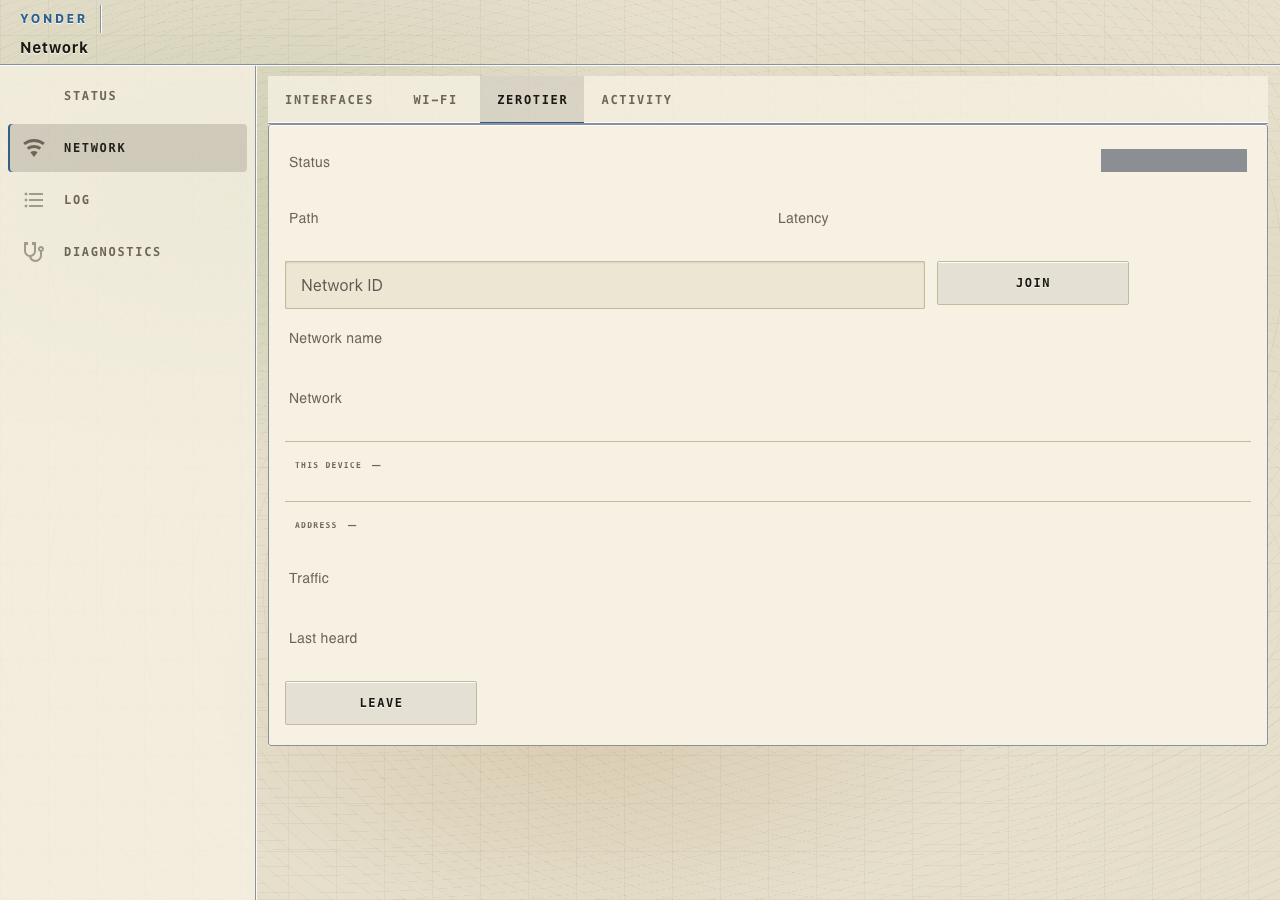
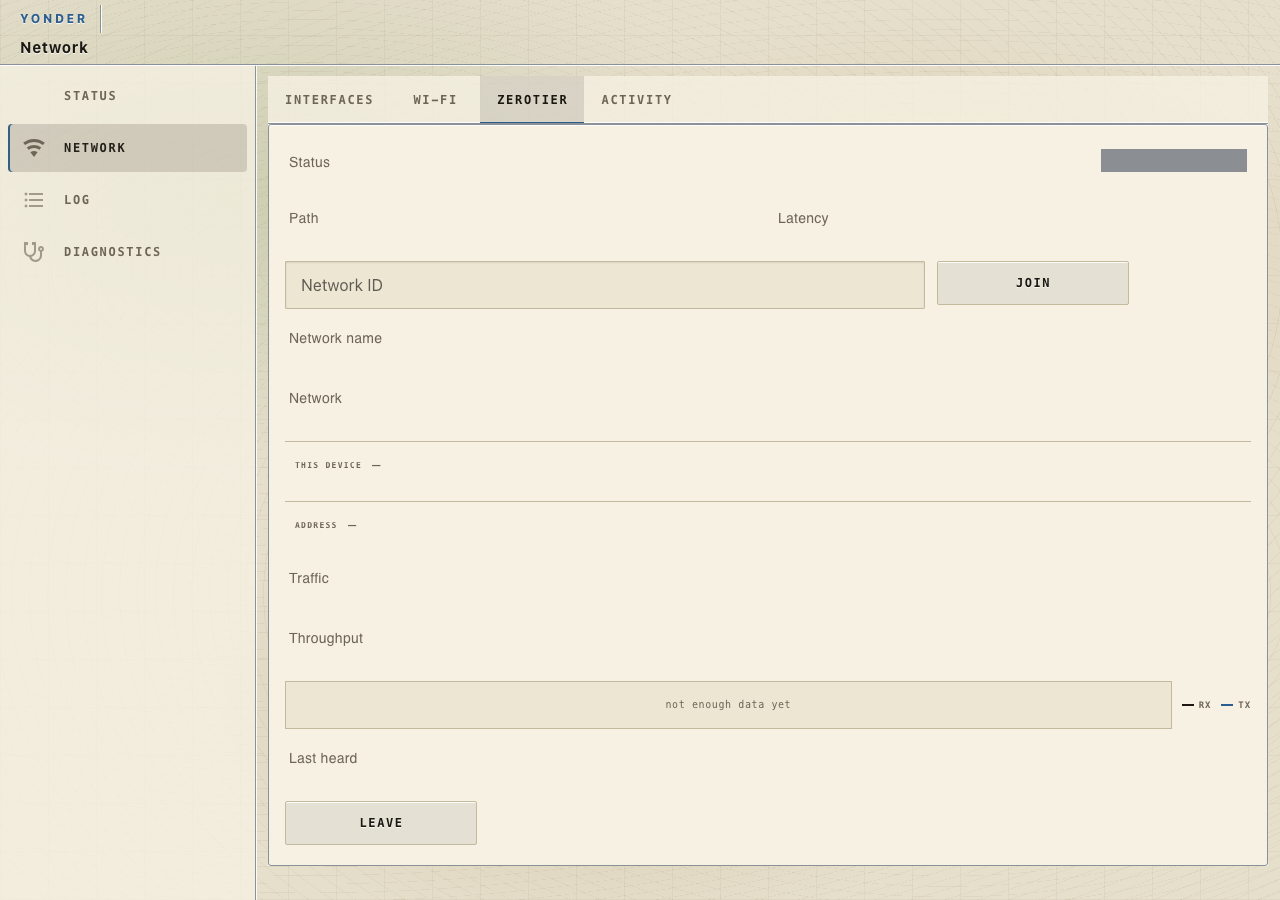
feat(console): wire the throughput line and sparkline onto the ZeroTier tab (R-NET-10, R-UI-06)
group-net-zerotier gets a Throughput reading and the sparkline beside the
Traffic total it already showed - wiring only, both bound to the same
yonder-remote-state message every other row on the tab already reads, no
function node involved.

The mesh poll (zt-poll) drops from a 5 s repeat to 2 s, R-UI-06's floor for
a link that runs hundreds of milliseconds of latency and the near-real-time
reading the sampler exists to provide - checked in flows.test.ts alongside
every other inject on the page. The Status page's own poll is untouched: it
has no graph to keep current and R-VPN-10 never asked it for one.

flows.test.ts gains two checks matching the ones R-VPN-10 already had for
traffic: that payload.throughput is shown, and that the sparkline is wired
to the same mesh state node the identity instruments are - so a future
change that quietly drops either wire fails a test in milliseconds rather
than being found by someone looking at a capture.

docs/console/capture and docs/console/shape record the accepted shape: 17
widgets on the tab become 19, and the widgets below the new pair move down
accordingly (scripts/verify-pages.sh --accept-shape, reviewed against the
PNGs in both palettes before accepting).

Changed region(s): [[0.1875, 0.7778, 1.0, 0.9644], [0.2188, 0.6844, 0.2812, 0.7156]]

diff --git a/packages/yonder-core/src/flows.test.ts b/packages/yonder-core/src/flows.test.ts
@@ -788,6 +788,30 @@ describe("flows/flows.json ZeroTier tab", () => {
   });
 
   /**
+   * R-NET-10: a rate, beside the running total the test above already checks
+   * for. Totals answer "how much has crossed this link"; this answers "how
+   * fast is it moving right now" - different questions, both on the tab.
+   */
+  it("shows the mesh throughput as a rate, not only as a total", () => {
+    const zerotier = flows.filter((n) => n.group === "group-net-zerotier" && n.type === "ui-text");
+    expect(zerotier.map((n) => String(n.value))).toContain("payload.throughput");
+  });
+
+  /**
+   * R-UI-13: the graph itself, generated on the device from the same message
+   * as every other reading on this tab - never a raster image, and never a
+   * `function` node reshaping `payload.series` for it (CLAUDE.md rule 2).
+   */
+  it("draws the throughput sparkline, wired to the same mesh state", () => {
+    const spark = flows.find((n) => n.group === "group-net-zerotier" && n.type === "ui-yonder-sparkline");
+    expect(spark, "the tab has no sparkline").toBeDefined();
+
+    const state = flows.find((n) => n.type === "yonder-remote-state");
+    const wired = (state!.wires as string[][]).flat();
+    expect(wired).toContain(spark!.id);
+  });
+
+  /**
    * A control that says it will act and does not.
    *
    * The `Copy` button shipped with `"wires": [[]]` and a tooltip telling the
